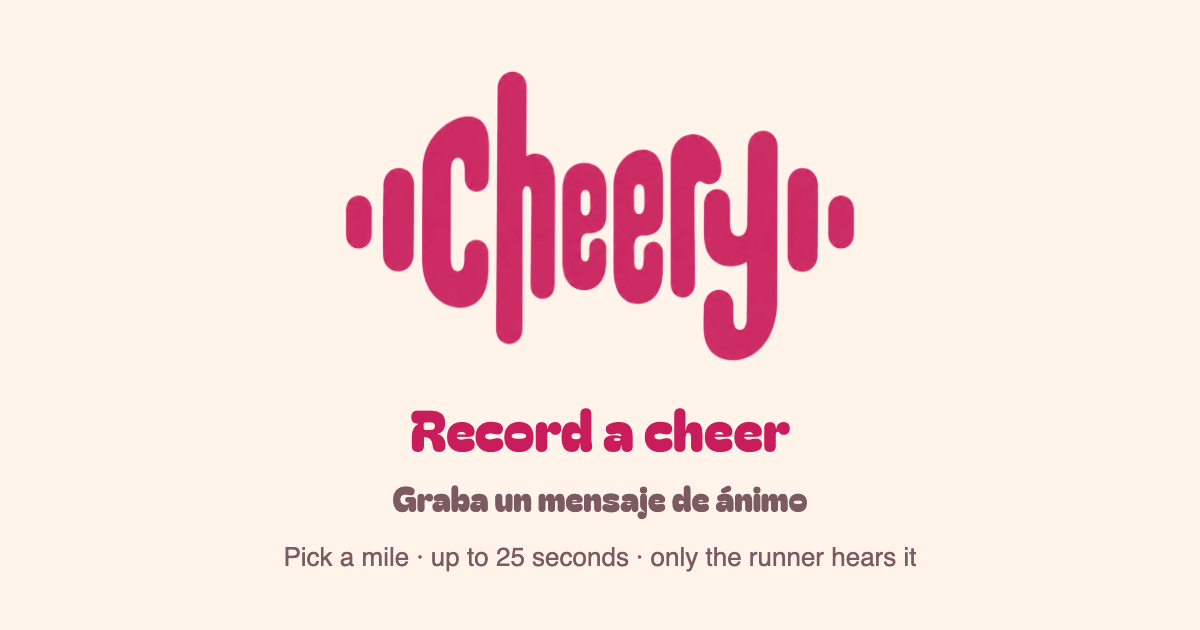
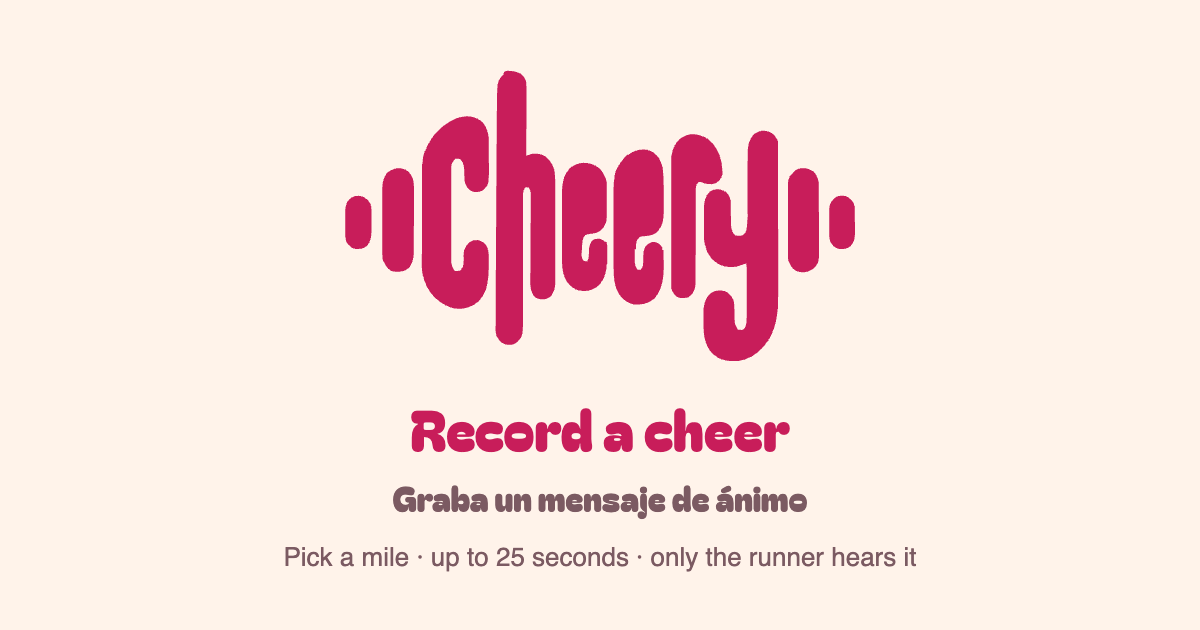
feat: draw the link preview card from the vector wordmark

diff --git a/backend/cheers/web/preview-card.html b/backend/cheers/web/preview-card.html
@@ -25,7 +25,7 @@ async function draw() {
   c.fillRect(0, 0, 1200, 630);
 
   const mark = new Image();
-  mark.src = "cheery-wordmark.png";
+  mark.src = "cheery-wordmark.svg";
   await mark.decode();
   const w = 520, h = mark.height * (w / mark.width);
   c.drawImage(mark, (1200 - w) / 2, 66, w, h);
